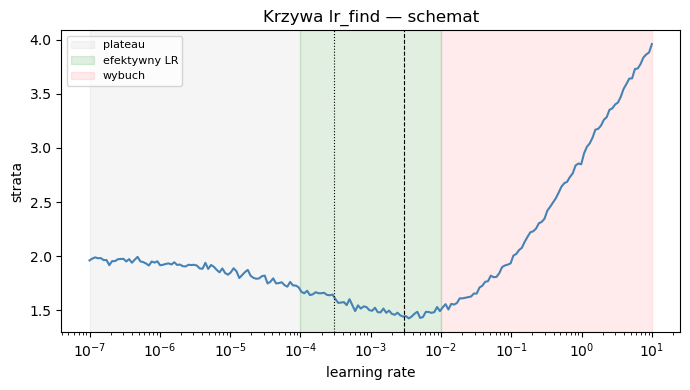
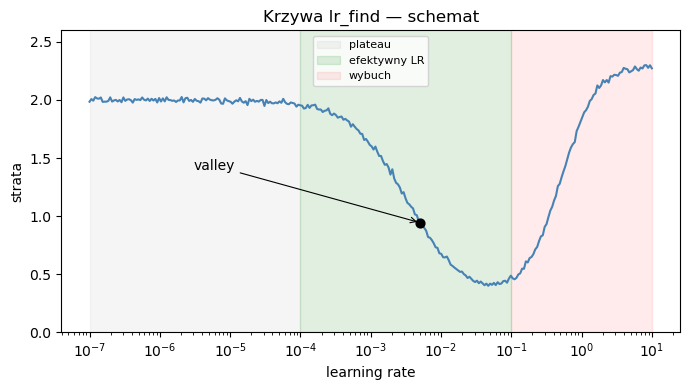
Built site for gh-pages

diff --git a/wyklady/wyklad_7.html b/wyklady/wyklad_7.html
@@ -61,7 +61,7 @@ pre > code.sourceCode > span > a:first-child::before { text-decoration: underlin
 </style>
 
 
-<script src="../site_libs/quarto-nav/quarto-nav.js"></script>
+<script src="https://cdn.jsdelivr.net/npm/jquery@3.5.1/dist/jquery.min.js" integrity="sha384-ZvpUoO/+PpLXR1lu4jmpXWu80pZlYUAfxl5NsBMWOEPSjUn/6Z/hRTt8+pR6L4N2" crossorigin="anonymous"></script><script src="../site_libs/quarto-nav/quarto-nav.js"></script>
 <script src="../site_libs/quarto-nav/headroom.min.js"></script>
 <script src="../site_libs/clipboard/clipboard.min.js"></script>
 <script src="../site_libs/quarto-search/autocomplete.umd.js"></script>
@@ -105,6 +105,9 @@ pre > code.sourceCode > span > a:first-child::before { text-decoration: underlin
     "search-label": "Search"
   }
 }</script>
+<script src="https://cdn.jsdelivr.net/npm/requirejs@2.3.6/require.min.js" integrity="sha384-c9c+LnTbwQ3aujuU7ULEPVvgLs+Fn6fJUvIGTsuu1ZcCf11fiEubah0ttpca4ntM sha384-6V1/AdqZRWk1KAlWbKBlGhN7VG4iE/yAZcO6NZPMF8od0vukrvr0tg4qY6NSrItx" crossorigin="anonymous"></script>
+
+<script type="application/javascript">define('jquery', [],function() {return window.jQuery;})</script>
 
   <script src="https://cdnjs.cloudflare.com/polyfill/v3/polyfill.min.js?features=es6"></script>
   <script defer="" src="https://cdn.jsdelivr.net/npm/mathjax@3/es5/tex-chtml-full.js" type="text/javascript"></script>
@@ -463,14 +466,10 @@ y = F(x) + x,
 <td><code>lr_find()</code></td>
 <td>pętla po batchach z wykładniczo rosnącym LR i logowaniem straty</td>
 </tr>
-<tr class="odd">
-<td><code>slice(lr_min, lr_max)</code></td>
-<td><code>param_groups</code> z różnymi <code>lr</code> dla różnych grup parametrów</td>
-</tr>
 </tbody>
 </table>
-<p>Wniosek dydaktyczny, który warto sobie zapisać już teraz: <strong>fastai nie robi niczego, czego nie umielibyśmy zaimplementować w PyTorchu</strong>. Niemal cały zysk fastai pochodzi z dwóch źródeł — z faktu, że ktoś <em>raz</em> napisał te rzeczy poprawnie (z dobrym harmonogramem, sensowną normalizacją, augmentacjami, które działają), oraz z tego, że trzy podstawowe abstrakcje są dobrze dobrane do tego, co naprawdę robimy w trenowaniu modeli.</p>
-<p>W kolejnych sekcjach pójdziemy po tej tabeli od góry do dołu.</p>
+<p>Wniosek praktyczny: <strong>fastai nie robi niczego, czego nie umielibyśmy zaimplementować w PyTorchu</strong>. Niemal cały zysk fastai pochodzi z dwóch źródeł — z faktu, że ktoś <em>raz</em> napisał te rzeczy poprawnie (z dobrym harmonogramem, sensowną normalizacją, augmentacjami, które działają), oraz z tego, że trzy podstawowe abstrakcje są dobrze dobrane do tego, co naprawdę robimy w trenowaniu modeli.</p>
+<p>W kolejnych sekcjach omówimy te abstrakcje w kolejności, w jakiej sięga się po nie w praktyce: najpierw <code>DataBlock</code> i <code>DataLoaders</code> (sekcja 5), potem <code>vision_learner</code> (sekcja 6), potem ręcznie zaimplementujemy <code>fine_tune()</code> w czystym PyTorchu (sekcja 7), zobaczymy <code>lr_find()</code> (sekcja 8) i fastai-ową wersję <code>fine_tune()</code> (sekcja 9). Wreszcie w sekcji 10 zobaczymy całość w działaniu.</p>
 </section>
 <section id="api-datablock-deklaratywne-przygotowanie-danych" class="level2">
 <h2 class="anchored" data-anchor-id="api-datablock-deklaratywne-przygotowanie-danych">API <code>DataBlock</code> — deklaratywne przygotowanie danych</h2>
@@ -515,7 +514,7 @@ y = F(x) + x,
 <div class="code-copy-outer-scaffold"><div class="sourceCode cell-code" id="cb4"><pre class="sourceCode python code-with-copy"><code class="sourceCode python"><span id="cb4-1"><a href="#cb4-1" aria-hidden="true" tabindex="-1"></a>learn <span class="op">=</span> vision_learner(dls, resnet18, metrics<span class="op">=</span>accuracy)</span></code></pre></div><button title="Copy to Clipboard" class="code-copy-button"><i class="bi"></i></button></div>
 </div>
 <p>Pod spodem fastai wykonuje cztery rzeczy. Wszystkie znamy z lab 11.</p>
-<p><strong>Po pierwsze</strong>, pobiera pretrenowany ResNet-18 z internetu (albo z lokalnego cache, jeśli już go ściągaliśmy) i ładuje wagi z ImageNet. Jest to dokładnie to, co robił <code>resnet18(weights=ResNet18_Weights.IMAGENET1K_V1)</code> w lab 11.</p>
+<p><strong>Po pierwsze</strong>, pobiera pretrenowany ResNet-18 z internetu (albo z lokalnego cache, jeśli już go ściągaliśmy) i ładuje wagi z ImageNet. Czyli to, co robił <code>resnet18(weights=ResNet18_Weights.IMAGENET1K_V1)</code> w lab 11.</p>
 <p><strong>Po drugie</strong>, odcina oryginalną głowę <code>fc</code> (linijka mapująca 512 cech na 1000 klas ImageNet) i przykleja w jej miejsce nową głowę, składającą się z kilku warstw: adaptive average pooling, flatten, BatchNorm, Dropout, Linear z aktywacją ReLU, kolejny BatchNorm i Dropout, i wreszcie warstwa Linear o wymiarze wyjściowym równym liczbie klas w <code>dls</code>. Głowa fastai jest więc bogatsza niż prosta podmiana <code>fc</code> z lab 11 (jedna warstwa liniowa), ale idea jest dokładnie ta sama: wymieniamy “ogon” sieci na coś dostosowanego do liczby naszych klas.</p>
 <p><strong>Po trzecie</strong>, zamraża backbone. W pętli po parametrach całej sieci ustawia <code>requires_grad=False</code> wszędzie poza nową głową:</p>
 <div id="cell-23" class="cell">
@@ -599,7 +598,7 @@ y = F(x) + x,
 <li>Narysuj krzywą strata–LR (na osi <span class="math inline">\(x\)</span> skala logarytmiczna).</li>
 </ol>
 <p>Krzywa, którą dostajemy, ma charakterystyczny kształt — trzy fazy:</p>
-<div id="cell-33" class="cell" data-execution_count="1">
+<div id="cell-33" class="cell" data-outputid="f5a4869e-681f-4062-ed88-16a8a6ec6a53">
 <div class="cell-output cell-output-display">
 <div>
 <figure class="figure">
@@ -614,25 +613,20 @@ y = F(x) + x,
 <li><strong>Ostry spadek przy umiarkowanym LR.</strong> Sieć uczy się efektywnie — strata szybko maleje wraz ze wzrostem LR. To jest “dobre” pasmo, z którego chcemy wybrać wartość.</li>
 <li><strong>Wybuch przy zbyt dużym LR.</strong> Strata zaczyna gwałtownie rosnąć. Kroki są na tyle duże, że parametry wylatują w obszary, w których funkcja straty jest gorsza niż przed nimi. Zwykle w tym momencie pętla się przerywa.</li>
 </ul>
-<p>Z tej krzywej fastai zwraca dwie liczby do wyboru:</p>
-<ul>
-<li><strong><code>lr_steep</code></strong> — wartość LR w punkcie o najstromszym nachyleniu krzywej. To jest “agresywna” propozycja: tu sieć uczy się najszybciej, ale jesteśmy też najbliżej obszaru wybuchu, więc minimalna nieostrożność (zbyt długi trening, zła augmentacja) może rozstroić sieć.</li>
-<li><strong><code>lr_min</code></strong> — wartość LR w punkcie minimum straty, podzielona przez 10. To jest “bezpieczna” propozycja: jesteśmy w środku stabilnej części krzywej, daleko od wybuchu.</li>
-</ul>
-<p>W praktyce wybiera się tu na oko, gdzieś między tymi dwoma punktami, kierując się głównie tym, jak bardzo nam zależy na szybkim treningu vs.&nbsp;jak bardzo na stabilności. Dla strojenia (sekcja 9) sensowny default to <span class="math inline">\(10^{-3}\)</span>, który zwykle leży wewnątrz “dobrego” pasma.</p>
-<p>Interpretacja dydaktyczna: <code>lr_find</code> to <strong>tania, jednowymiarowa wersja Optuny</strong>. Optuna przeszukuje wielowymiarową przestrzeń hiperparametrów, ucząc się rozkładu warunkowego dobrych kombinacji. <code>lr_find</code> szuka w jednym wymiarze (sam LR), ale wykonuje tę pracę w trakcie <em>jednej</em> krótkiej pętli, bez powtarzania pełnego treningu.</p>
+<p>Z tej krzywej fastai zwraca propozycję learning rate’u — domyślnie wartość zwaną <strong><code>valley</code></strong>. Algorytm <code>valley</code> lokalizuje najdłuższą „dolinę” na krzywej (najdłuższy spójny fragment, na którym strata maleje) i wybiera punkt mniej więcej w 2/3 jej długości — czyli wewnątrz pasma efektywnego uczenia, jeszcze z bezpiecznym zapasem od obszaru wybuchu. To rozsądny, konserwatywny default, który w praktyce sprawdza się dla większości zadań transferowych.</p>
+<p>Wynik <code>lr_find()</code> to obiekt, z którego wyłuskujemy tę liczbę przez pole <code>.valley</code> i podajemy ją wprost do <code>fine_tune()</code>:</p>
+<div class="code-copy-outer-scaffold"><div class="sourceCode" id="cb9"><pre class="sourceCode python code-with-copy"><code class="sourceCode python"><span id="cb9-1"><a href="#cb9-1" aria-hidden="true" tabindex="-1"></a>res <span class="op">=</span> learn.lr_find()</span>
+<span id="cb9-2"><a href="#cb9-2" aria-hidden="true" tabindex="-1"></a>learn.fine_tune(<span class="dv">3</span>, base_lr<span class="op">=</span>res.valley)</span></code></pre></div><button title="Copy to Clipboard" class="code-copy-button"><i class="bi"></i></button></div>
+<p>Tym samym <code>lr_find()</code> nie tylko rysuje krzywą, ale również dostarcza konkretną wartość <code>base_lr</code> do treningu. (fastai potrafi też zwrócić inne propozycje, np. punkt minimum czy najstromszego nachylenia, jeśli poda się je w <code>suggest_funcs</code>, ale domyślny <code>valley</code> wystarcza nam w zupełności.)</p>
+<p>Interpretacja: <code>lr_find</code> to <strong>tania, jednowymiarowa wersja Optuny</strong>. Optuna przeszukuje wielowymiarową przestrzeń hiperparametrów, ucząc się rozkładu warunkowego dobrych kombinacji. <code>lr_find</code> szuka w jednym wymiarze (sam LR), ale wykonuje tę pracę w trakcie <em>jednej</em> krótkiej pętli, bez powtarzania pełnego treningu.</p>
 </section>
 <section id="fine_tune-dwuetapowy-trening-w-jednej-linijce" class="level2">
 <h2 class="anchored" data-anchor-id="fine_tune-dwuetapowy-trening-w-jednej-linijce"><code>fine_tune()</code> — dwuetapowy trening w jednej linijce</h2>
-<p>Mając <code>lr_find()</code> za sobą, wybieramy <code>base_lr</code> i wywołujemy:</p>
-<div id="cell-37" class="cell">
-<div class="code-copy-outer-scaffold"><div class="sourceCode cell-code" id="cb9"><pre class="sourceCode python code-with-copy"><code class="sourceCode python"><span id="cb9-1"><a href="#cb9-1" aria-hidden="true" tabindex="-1"></a>learn.fine_tune(epochs<span class="op">=</span><span class="dv">3</span>, base_lr<span class="op">=</span><span class="fl">1e-3</span>)</span></code></pre></div><button title="Copy to Clipboard" class="code-copy-button"><i class="bi"></i></button></div>
-</div>
-<p>Pod spodem ta jedna linijka rozkłada się dokładnie na to, co napisaliśmy ręcznie w sekcji 7, plus jeden bonus.</p>
-<p><strong>Etap 1</strong> (długość ustalana parametrem <code>freeze_epochs</code>, domyślnie 1 epoka): wywołuje <code>learn.freeze()</code>, co ustawia <code>requires_grad=False</code> we wszystkich warstwach poza nową głową, a następnie trenuje przez <code>freeze_epochs</code> epok z LR równym <code>base_lr</code>. To nasz etap 1 z sekcji 7.</p>
-<p><strong>Etap 2</strong> (długość <code>epochs</code>): wywołuje <code>learn.unfreeze()</code>, co odmraża wszystkie warstwy, a następnie trenuje przez <code>epochs</code> epok z <strong>dyskryminacyjnym LR</strong>, ustawionym jako <code>slice(base_lr/100, base_lr/2)</code>.</p>
-<p>Wyrażenie <code>slice(lr_min, lr_max)</code> to fastai-owy idiom oznaczający: “learning rate rośnie geometrycznie od <code>lr_min</code> (dla pierwszej grupy parametrów) do <code>lr_max</code> (dla ostatniej)”. Wewnętrznie fastai dzieli parametry ResNeta na trzy grupy (wczesne warstwy backbone’u, środkowe warstwy backbone’u, nowa głowa) i przypisuje im LR-y na skali geometrycznej między <code>lr_min</code> a <code>lr_max</code>. To, co fastai konstruuje pod spodem, to <strong>ta sama lista słowników z <code>params</code> i <code>lr</code></strong>, którą zbudowaliśmy ręcznie w sekcji 7 — tylko dla trzech grup zamiast dwóch, i z LR-ami obliczonymi automatycznie z <code>base_lr</code>.</p>
-<p>Z domyślnym <code>base_lr=1e-3</code> daje to LR-y rzędu <span class="math inline">\(10^{-5}\)</span> dla wczesnych warstw i <span class="math inline">\(5 \cdot 10^{-4}\)</span> dla głowy — czyli proporcję 50×, w środku zakresu.</p>
+<p>Mając wartość z <code>lr_find()</code>, podajemy ją jako <code>base_lr</code> i wywołujemy:</p>
+<div class="code-copy-outer-scaffold"><div class="sourceCode" id="cb10"><pre class="sourceCode python code-with-copy"><code class="sourceCode python"><span id="cb10-1"><a href="#cb10-1" aria-hidden="true" tabindex="-1"></a>learn.fine_tune(epochs<span class="op">=</span><span class="dv">3</span>, base_lr<span class="op">=</span>res.valley)</span></code></pre></div><button title="Copy to Clipboard" class="code-copy-button"><i class="bi"></i></button></div>
+<p>Pod spodem ta jedna linijka rozkłada się na to, co napisaliśmy ręcznie w sekcji 7, plus jeden bonus.</p>
+<p><strong>Etap 1</strong> (długość ustalana parametrem <code>freeze_epochs</code>, domyślnie 1 epoka): wywołuje <code>learn.freeze()</code>, co ustawia <code>requires_grad=False</code> we wszystkich warstwach poza nową głową, a następnie trenuje przez <code>freeze_epochs</code> epok z LR równym <code>base_lr</code>.</p>
+<p><strong>Etap 2</strong> (długość <code>epochs</code>): wywołuje <code>learn.unfreeze()</code>, co odmraża wszystkie warstwy, a następnie trenuje przez <code>epochs</code> epok z <strong>dyskryminacyjnym LR</strong>: bardzo małym dla wczesnych warstw backbone’u, większym dla nowej głowy. Wewnętrznie fastai dzieli parametry ResNeta na trzy grupy (wczesne warstwy backbone’u, środkowe warstwy backbone’u, nowa głowa) i przypisuje im learning rate’y na skali geometrycznej między <code>base_lr/100</code> a <code>base_lr/2</code>. To, co fastai konstruuje pod spodem, to <strong>ta sama lista słowników z <code>params</code> i <code>lr</code></strong>, którą zbudowaliśmy ręcznie w sekcji 7 — tylko dla trzech grup zamiast dwóch, i z LR-ami obliczonymi automatycznie z <code>base_lr</code>. Tej konstrukcji nie wywołujemy sami; <code>fine_tune()</code> buduje ją za nas.</p>
 <p><strong>One-cycle policy.</strong> Bonus, którego sekcja 7 nie pokazywała: w obu etapach LR nie jest stały. Jest harmonogramowany według polityki jednego cyklu (Smith 2017): LR rośnie liniowo od ułamka <code>base_lr</code> do <code>base_lr</code> w pierwszej połowie treningu, a potem opada do bardzo małej wartości w drugiej połowie. Ten harmonogram poprawia konwergencję i daje się tłumaczyć dwojako — w pierwszej fazie pomaga sieci wydostać się z marnego lokalnego minimum, w drugiej pomaga jej “osadzić się” w głębokim, dobrym minimum. W czystym PyTorchu implementuje się to przez <code>torch.optim.lr_scheduler.OneCycleLR</code>; w fastai dzieje się to automatycznie wewnątrz <code>fine_tune()</code>.</p>
 <p>Zauważmy, jak ułożone są warstwy abstrakcji. Jedna linijka <code>fine_tune(3, base_lr=1e-3)</code> to: dwie pętle treningowe z wykładu 5, dyskryminacyjny LR z sekcji 7, plus harmonogram one-cycle.</p>
 </section>
@@ -640,53 +634,247 @@ y = F(x) + x,
 <h2 class="anchored" data-anchor-id="praktyczny-przykład-oxford-iiit-pets">Praktyczny przykład: Oxford-IIIT Pets</h2>
 <p>Zobaczmy całość w działaniu. Zbiór, który tu wykorzystamy — Oxford-IIIT Pets — to jeden z klasycznych benchmarków klasyfikacji obrazów: 37 klas (różne rasy psów i kotów), około 7000 zdjęć w naturalnych warunkach, etykieta zapisana w nazwie pliku (np. <code>american_bulldog_42.jpg</code> → klasa <code>american_bulldog</code>).</p>
 <p>Krok pierwszy — pobranie i podejrzenie danych:</p>
-<div id="cell-41" class="cell">
-<div class="code-copy-outer-scaffold"><div class="sourceCode cell-code" id="cb10"><pre class="sourceCode python code-with-copy"><code class="sourceCode python"><span id="cb10-1"><a href="#cb10-1" aria-hidden="true" tabindex="-1"></a><span class="im">from</span> fastai.vision.<span class="bu">all</span> <span class="im">import</span> <span class="op">*</span></span>
-<span id="cb10-2"><a href="#cb10-2" aria-hidden="true" tabindex="-1"></a></span>
-<span id="cb10-3"><a href="#cb10-3" aria-hidden="true" tabindex="-1"></a>path <span class="op">=</span> untar_data(URLs.PETS)</span>
-<span id="cb10-4"><a href="#cb10-4" aria-hidden="true" tabindex="-1"></a>files <span class="op">=</span> get_image_files(path<span class="op">/</span><span class="st">'images'</span>)</span>
-<span id="cb10-5"><a href="#cb10-5" aria-hidden="true" tabindex="-1"></a><span class="bu">print</span>(<span class="bu">len</span>(files), files[<span class="dv">0</span>])</span></code></pre></div><button title="Copy to Clipboard" class="code-copy-button"><i class="bi"></i></button></div>
+<div id="cell-39" class="cell" data-quarto-private-1="{&quot;key&quot;:&quot;colab&quot;,&quot;value&quot;:{&quot;base_uri&quot;:&quot;https://localhost:8080/&quot;}}" data-outputid="7f83b726-35ee-49f1-8dd5-d4e206bfc332" data-execution_count="1">
+<div class="code-copy-outer-scaffold"><div class="sourceCode cell-code" id="cb11"><pre class="sourceCode python code-with-copy"><code class="sourceCode python"><span id="cb11-1"><a href="#cb11-1" aria-hidden="true" tabindex="-1"></a><span class="im">from</span> fastai.vision.<span class="bu">all</span> <span class="im">import</span> <span class="op">*</span></span>
+<span id="cb11-2"><a href="#cb11-2" aria-hidden="true" tabindex="-1"></a></span>
+<span id="cb11-3"><a href="#cb11-3" aria-hidden="true" tabindex="-1"></a>path <span class="op">=</span> untar_data(URLs.PETS)</span>
+<span id="cb11-4"><a href="#cb11-4" aria-hidden="true" tabindex="-1"></a>files <span class="op">=</span> get_image_files(path<span class="op">/</span><span class="st">'images'</span>)</span>
+<span id="cb11-5"><a href="#cb11-5" aria-hidden="true" tabindex="-1"></a><span class="bu">print</span>(<span class="bu">len</span>(files), files[<span class="dv">0</span>])</span></code></pre></div><button title="Copy to Clipboard" class="code-copy-button"><i class="bi"></i></button></div>
+<div class="cell-output cell-output-stdout">
+<pre><code>7390 /root/.fastai/data/oxford-iiit-pet/images/Birman_117.jpg</code></pre>
+</div>
 </div>
 <p><code>untar_data(URLs.PETS)</code> pobiera archiwum, rozpakowuje je do lokalnego cache fastai i zwraca ścieżkę do folderu z danymi. <code>get_image_files</code> zwraca listę wszystkich plików obrazów w folderze.</p>
 <p>Etykietowanie wymaga wyłuskania nazwy rasy z nazwy pliku. Konwencja Oxford-IIIT: nazwa rasy może składać się z wielu słów rozdzielonych podkreśleniami, a po niej następuje <code>_&lt;numer&gt;.jpg</code>. Wyrażenie regularne <code>r'^(.+)_\d+.jpg$'</code> wyłuska część przed numerem.</p>
 <p>Pełen pipeline w sześć linijek:</p>
-<div id="cell-43" class="cell">
-<div class="code-copy-outer-scaffold"><div class="sourceCode cell-code" id="cb11"><pre class="sourceCode python code-with-copy"><code class="sourceCode python"><span id="cb11-1"><a href="#cb11-1" aria-hidden="true" tabindex="-1"></a>dblock <span class="op">=</span> DataBlock(</span>
-<span id="cb11-2"><a href="#cb11-2" aria-hidden="true" tabindex="-1"></a>    blocks<span class="op">=</span>(ImageBlock, CategoryBlock),</span>
-<span id="cb11-3"><a href="#cb11-3" aria-hidden="true" tabindex="-1"></a>    get_items<span class="op">=</span>get_image_files,</span>
-<span id="cb11-4"><a href="#cb11-4" aria-hidden="true" tabindex="-1"></a>    splitter<span class="op">=</span>RandomSplitter(valid_pct<span class="op">=</span><span class="fl">0.2</span>, seed<span class="op">=</span><span class="dv">42</span>),</span>
-<span id="cb11-5"><a href="#cb11-5" aria-hidden="true" tabindex="-1"></a>    get_y<span class="op">=</span>using_attr(RegexLabeller(<span class="vs">r'</span><span class="dv">^</span><span class="kw">(</span><span class="dv">.</span><span class="op">+</span><span class="kw">)</span><span class="vs">_</span><span class="dv">\d</span><span class="op">+</span><span class="dv">.</span><span class="vs">jpg</span><span class="dv">$</span><span class="vs">'</span>), <span class="st">'name'</span>),</span>
-<span id="cb11-6"><a href="#cb11-6" aria-hidden="true" tabindex="-1"></a>    item_tfms<span class="op">=</span>Resize(<span class="dv">224</span>),</span>
-<span id="cb11-7"><a href="#cb11-7" aria-hidden="true" tabindex="-1"></a>    batch_tfms<span class="op">=</span>[<span class="op">*</span>aug_transforms(), Normalize.from_stats(<span class="op">*</span>imagenet_stats)],</span>
-<span id="cb11-8"><a href="#cb11-8" aria-hidden="true" tabindex="-1"></a>)</span>
-<span id="cb11-9"><a href="#cb11-9" aria-hidden="true" tabindex="-1"></a>dls <span class="op">=</span> dblock.dataloaders(path<span class="op">/</span><span class="st">'images'</span>, bs<span class="op">=</span><span class="dv">64</span>)</span>
-<span id="cb11-10"><a href="#cb11-10" aria-hidden="true" tabindex="-1"></a>dls.show_batch(max_n<span class="op">=</span><span class="dv">9</span>)</span>
-<span id="cb11-11"><a href="#cb11-11" aria-hidden="true" tabindex="-1"></a></span>
-<span id="cb11-12"><a href="#cb11-12" aria-hidden="true" tabindex="-1"></a>learn <span class="op">=</span> vision_learner(dls, resnet18, metrics<span class="op">=</span>accuracy)</span>
-<span id="cb11-13"><a href="#cb11-13" aria-hidden="true" tabindex="-1"></a>learn.lr_find()</span>
-<span id="cb11-14"><a href="#cb11-14" aria-hidden="true" tabindex="-1"></a>learn.fine_tune(<span class="dv">3</span>, base_lr<span class="op">=</span><span class="fl">1e-3</span>)</span></code></pre></div><button title="Copy to Clipboard" class="code-copy-button"><i class="bi"></i></button></div>
+<div id="cell-41" class="cell" data-quarto-private-1="{&quot;key&quot;:&quot;colab&quot;,&quot;value&quot;:{&quot;base_uri&quot;:&quot;https://localhost:8080/&quot;,&quot;height&quot;:1000}}" data-outputid="904b6bd0-16a0-46e9-9529-4fd0af19faeb" data-execution_count="2">
+<div class="code-copy-outer-scaffold"><div class="sourceCode cell-code" id="cb13"><pre class="sourceCode python code-with-copy"><code class="sourceCode python"><span id="cb13-1"><a href="#cb13-1" aria-hidden="true" tabindex="-1"></a>dblock <span class="op">=</span> DataBlock(</span>
+<span id="cb13-2"><a href="#cb13-2" aria-hidden="true" tabindex="-1"></a>    blocks<span class="op">=</span>(ImageBlock, CategoryBlock),</span>
+<span id="cb13-3"><a href="#cb13-3" aria-hidden="true" tabindex="-1"></a>    get_items<span class="op">=</span>get_image_files,</span>
+<span id="cb13-4"><a href="#cb13-4" aria-hidden="true" tabindex="-1"></a>    splitter<span class="op">=</span>RandomSplitter(valid_pct<span class="op">=</span><span class="fl">0.2</span>, seed<span class="op">=</span><span class="dv">42</span>),</span>
+<span id="cb13-5"><a href="#cb13-5" aria-hidden="true" tabindex="-1"></a>    get_y<span class="op">=</span>using_attr(RegexLabeller(<span class="vs">r'</span><span class="dv">^</span><span class="kw">(</span><span class="dv">.</span><span class="op">+</span><span class="kw">)</span><span class="vs">_</span><span class="dv">\d</span><span class="op">+</span><span class="dv">.</span><span class="vs">jpg</span><span class="dv">$</span><span class="vs">'</span>), <span class="st">'name'</span>),</span>
+<span id="cb13-6"><a href="#cb13-6" aria-hidden="true" tabindex="-1"></a>    item_tfms<span class="op">=</span>Resize(<span class="dv">224</span>),</span>
+<span id="cb13-7"><a href="#cb13-7" aria-hidden="true" tabindex="-1"></a>    batch_tfms<span class="op">=</span>[<span class="op">*</span>aug_transforms(), Normalize.from_stats(<span class="op">*</span>imagenet_stats)],</span>
+<span id="cb13-8"><a href="#cb13-8" aria-hidden="true" tabindex="-1"></a>)</span>
+<span id="cb13-9"><a href="#cb13-9" aria-hidden="true" tabindex="-1"></a>dls <span class="op">=</span> dblock.dataloaders(path<span class="op">/</span><span class="st">'images'</span>, bs<span class="op">=</span><span class="dv">64</span>)</span>
+<span id="cb13-10"><a href="#cb13-10" aria-hidden="true" tabindex="-1"></a>dls.show_batch(max_n<span class="op">=</span><span class="dv">9</span>)</span>
+<span id="cb13-11"><a href="#cb13-11" aria-hidden="true" tabindex="-1"></a></span>
+<span id="cb13-12"><a href="#cb13-12" aria-hidden="true" tabindex="-1"></a>learn <span class="op">=</span> vision_learner(dls, resnet18, metrics<span class="op">=</span>accuracy)</span>
+<span id="cb13-13"><a href="#cb13-13" aria-hidden="true" tabindex="-1"></a>res <span class="op">=</span> learn.lr_find()</span></code></pre></div><button title="Copy to Clipboard" class="code-copy-button"><i class="bi"></i></button></div>
+<div class="cell-output cell-output-display">
+
+<style>
+    progress { appearance: none; border: none; border-radius: 4px; width: 300px;
+        height: 20px; vertical-align: middle; background: #e0e0e0; }
+
+    progress::-webkit-progress-bar { background: #e0e0e0; border-radius: 4px; }
+    progress::-webkit-progress-value { background: #2196F3; border-radius: 4px; }
+    progress::-moz-progress-bar { background: #2196F3; border-radius: 4px; }
+
+    progress:not([value]) {
+        background: repeating-linear-gradient(45deg, #7e7e7e, #7e7e7e 10px, #5c5c5c 10px, #5c5c5c 20px); }
+
+    progress.progress-bar-interrupted::-webkit-progress-value { background: #F44336; }
+    progress.progress-bar-interrupted::-moz-progress-value { background: #F44336; }
+    progress.progress-bar-interrupted::-webkit-progress-bar { background: #F44336; }
+    progress.progress-bar-interrupted::-moz-progress-bar { background: #F44336; }
+    progress.progress-bar-interrupted { background: #F44336; }    
+
+    table.fastprogress { border-collapse: collapse; margin: 1em 0; font-size: 0.9em; }
+    table.fastprogress th, table.fastprogress td { padding: 8px 12px; border: 1px solid #ddd; text-align: left; }
+    table.fastprogress thead tr { background: #f8f9fa; font-weight: bold; }
+    table.fastprogress tbody tr:nth-of-type(even) { background: #f8f9fa; }
+</style>
+</div>
+<div class="cell-output cell-output-display">
+<div></div>
+</div>
+<div class="cell-output cell-output-display">
+<div>
+<figure class="figure">
+<p><img src="wyklad_7_files/figure-html/cell-12-output-3.png" class="img-fluid figure-img"></p>
+</figure>
+</div>
+</div>
+<div class="cell-output cell-output-display">
+<div>
+<figure class="figure">
+<p><img src="wyklad_7_files/figure-html/cell-12-output-4.png" class="img-fluid figure-img"></p>
+</figure>
+</div>
+</div>
+</div>
+<div id="cell-42" class="cell" data-quarto-private-1="{&quot;key&quot;:&quot;colab&quot;,&quot;value&quot;:{&quot;base_uri&quot;:&quot;https://localhost:8080/&quot;,&quot;height&quot;:149}}" data-outputid="734014ef-0431-48ba-f6e3-c67b408d3a8e" data-execution_count="3">
+<div class="code-copy-outer-scaffold"><div class="sourceCode cell-code" id="cb14"><pre class="sourceCode python code-with-copy"><code class="sourceCode python"><span id="cb14-1"><a href="#cb14-1" aria-hidden="true" tabindex="-1"></a>learn.fine_tune(<span class="dv">3</span>, base_lr<span class="op">=</span>res.valley)</span></code></pre></div><button title="Copy to Clipboard" class="code-copy-button"><i class="bi"></i></button></div>
+<div class="cell-output cell-output-display">
+<div>
+<table class="fastprogress caption-top table table-sm table-striped small">
+<thead>
+<tr class="header">
+<th data-quarto-table-cell-role="th">epoch</th>
+<th data-quarto-table-cell-role="th">train_loss</th>
+<th data-quarto-table-cell-role="th">valid_loss</th>
+<th data-quarto-table-cell-role="th">accuracy</th>
+<th data-quarto-table-cell-role="th">time</th>
+</tr>
+</thead>
+<tbody>
+<tr class="odd">
+<td>0</td>
+<td>2.897494</td>
+<td>0.664590</td>
+<td>0.817997</td>
+<td>00:39</td>
+</tr>
+</tbody>
+</table>
+</div>
+</div>
+<div class="cell-output cell-output-display">
+<div>
+<table class="fastprogress caption-top table table-sm table-striped small">
+<thead>
+<tr class="header">
+<th data-quarto-table-cell-role="th">epoch</th>
+<th data-quarto-table-cell-role="th">train_loss</th>
+<th data-quarto-table-cell-role="th">valid_loss</th>
+<th data-quarto-table-cell-role="th">accuracy</th>
+<th data-quarto-table-cell-role="th">time</th>
+</tr>
+</thead>
+<tbody>
+<tr class="odd">
+<td>0</td>
+<td>1.060126</td>
+<td>0.379037</td>
+<td>0.884980</td>
+<td>00:41</td>
+</tr>
+<tr class="even">
+<td>1</td>
+<td>0.722888</td>
+<td>0.278782</td>
+<td>0.908660</td>
+<td>00:42</td>
+</tr>
+<tr class="odd">
+<td>2</td>
+<td>0.574418</td>
+<td>0.267447</td>
+<td>0.912720</td>
+<td>00:45</td>
+</tr>
+</tbody>
+</table>
+</div>
+</div>
 </div>
 <p>Na Pets ten pipeline daje zwykle dokładność wyraźnie powyżej dziewięćdziesięciu procent na zbiorze walidacyjnym po trzech epokach. Pełny trening trwa około trzech minut na bezpłatnym GPU T4 w Google Colab — niewielki ułamek tego, ile zajęłoby trenowanie ResNeta od zera (które zresztą, jak zaraz zobaczymy, w ogóle by się nie udało).</p>
 <p><strong>Porównanie z treningiem od zera.</strong> Najprostszy sposób, żeby zobaczyć, ile naprawdę daje transfer, to wykonać dokładnie ten sam trening, ale z modelem zainicjalizowanym losowo — czyli <code>vision_learner(dls, resnet18, pretrained=False, metrics=accuracy)</code>. Liczba parametrów ta sama, architektura ta sama, dane te same, te same trzy epoki strojenia z <code>fine_tune</code>.</p>
-<div id="cell-45" class="cell">
-<div class="code-copy-outer-scaffold"><div class="sourceCode cell-code" id="cb12"><pre class="sourceCode python code-with-copy"><code class="sourceCode python"><span id="cb12-1"><a href="#cb12-1" aria-hidden="true" tabindex="-1"></a>learn_raw <span class="op">=</span> vision_learner(dls, resnet18, pretrained<span class="op">=</span><span class="va">False</span>, metrics<span class="op">=</span>accuracy)</span>
-<span id="cb12-2"><a href="#cb12-2" aria-hidden="true" tabindex="-1"></a>res <span class="op">=</span> learn_raw.lr_find()</span></code></pre></div><button title="Copy to Clipboard" class="code-copy-button"><i class="bi"></i></button></div>
+<div id="cell-44" class="cell" data-quarto-private-1="{&quot;key&quot;:&quot;colab&quot;,&quot;value&quot;:{&quot;base_uri&quot;:&quot;https://localhost:8080/&quot;,&quot;height&quot;:454}}" data-outputid="b8e2838d-2af5-497f-bc20-424402720585" data-execution_count="4">
+<div class="code-copy-outer-scaffold"><div class="sourceCode cell-code" id="cb15"><pre class="sourceCode python code-with-copy"><code class="sourceCode python"><span id="cb15-1"><a href="#cb15-1" aria-hidden="true" tabindex="-1"></a>learn_raw <span class="op">=</span> vision_learner(dls, resnet18, pretrained<span class="op">=</span><span class="va">False</span>, metrics<span class="op">=</span>accuracy)</span>
+<span id="cb15-2"><a href="#cb15-2" aria-hidden="true" tabindex="-1"></a>res <span class="op">=</span> learn_raw.lr_find()</span></code></pre></div><button title="Copy to Clipboard" class="code-copy-button"><i class="bi"></i></button></div>
+<div class="cell-output cell-output-display">
+<div></div>
 </div>
-<div id="cell-46" class="cell">
-<div class="code-copy-outer-scaffold"><div class="sourceCode cell-code" id="cb13"><pre class="sourceCode python code-with-copy"><code class="sourceCode python"><span id="cb13-1"><a href="#cb13-1" aria-hidden="true" tabindex="-1"></a>learn_raw.fine_tune(<span class="dv">3</span>, base_lr<span class="op">=</span>res.valley)</span></code></pre></div><button title="Copy to Clipboard" class="code-copy-button"><i class="bi"></i></button></div>
+<div class="cell-output cell-output-display">
+<div>
+<figure class="figure">
+<p><img src="wyklad_7_files/figure-html/cell-14-output-2.png" class="img-fluid figure-img"></p>
+</figure>
+</div>
+</div>
+</div>
+<div id="cell-45" class="cell" data-quarto-private-1="{&quot;key&quot;:&quot;colab&quot;,&quot;value&quot;:{&quot;base_uri&quot;:&quot;https://localhost:8080/&quot;,&quot;height&quot;:149}}" data-outputid="560cbea9-f677-4722-a25d-4fb85315f29f" data-execution_count="5">
+<div class="code-copy-outer-scaffold"><div class="sourceCode cell-code" id="cb16"><pre class="sourceCode python code-with-copy"><code class="sourceCode python"><span id="cb16-1"><a href="#cb16-1" aria-hidden="true" tabindex="-1"></a>learn_raw.fine_tune(<span class="dv">3</span>, base_lr<span class="op">=</span>res.valley)</span></code></pre></div><button title="Copy to Clipboard" class="code-copy-button"><i class="bi"></i></button></div>
+<div class="cell-output cell-output-display">
+<div>
+<table class="fastprogress caption-top table table-sm table-striped small">
+<thead>
+<tr class="header">
+<th data-quarto-table-cell-role="th">epoch</th>
+<th data-quarto-table-cell-role="th">train_loss</th>
+<th data-quarto-table-cell-role="th">valid_loss</th>
+<th data-quarto-table-cell-role="th">accuracy</th>
+<th data-quarto-table-cell-role="th">time</th>
+</tr>
+</thead>
+<tbody>
+<tr class="odd">
+<td>0</td>
+<td>4.883750</td>
+<td>3.785161</td>
+<td>0.052097</td>
+<td>00:39</td>
+</tr>
+</tbody>
+</table>
+</div>
+</div>
+<div class="cell-output cell-output-display">
+<div>
+<table class="fastprogress caption-top table table-sm table-striped small">
+<thead>
+<tr class="header">
+<th data-quarto-table-cell-role="th">epoch</th>
+<th data-quarto-table-cell-role="th">train_loss</th>
+<th data-quarto-table-cell-role="th">valid_loss</th>
+<th data-quarto-table-cell-role="th">accuracy</th>
+<th data-quarto-table-cell-role="th">time</th>
+</tr>
+</thead>
+<tbody>
+<tr class="odd">
+<td>0</td>
+<td>4.368881</td>
+<td>3.625672</td>
+<td>0.071719</td>
+<td>00:41</td>
+</tr>
+<tr class="even">
+<td>1</td>
+<td>4.222616</td>
+<td>3.437689</td>
+<td>0.091340</td>
+<td>00:42</td>
+</tr>
+<tr class="odd">
+<td>2</td>
+<td>4.101819</td>
+<td>3.412164</td>
+<td>0.099459</td>
+<td>00:43</td>
+</tr>
+</tbody>
+</table>
+</div>
+</div>
 </div>
 <p>I dopiero tu, dopiero w tym porównaniu — siedemdziesiąt punktów procentowych różnicy między modelem pretrenowanym a modelem od zera, przy identycznej reszcie pipeline’u — widać sens transfer learningu.</p>
 </section>
 <section id="interpretacja-wyników" class="level2">
 <h2 class="anchored" data-anchor-id="interpretacja-wyników">Interpretacja wyników</h2>
 <p>Po wytrenowaniu modelu w fastai mamy do dyspozycji zestaw narzędzi diagnostycznych zebranych w klasie <code>ClassificationInterpretation</code>:</p>
-<div id="cell-49" class="cell">
-<div class="code-copy-outer-scaffold"><div class="sourceCode cell-code" id="cb14"><pre class="sourceCode python code-with-copy"><code class="sourceCode python"><span id="cb14-1"><a href="#cb14-1" aria-hidden="true" tabindex="-1"></a>interp <span class="op">=</span> ClassificationInterpretation.from_learner(learn)</span></code></pre></div><button title="Copy to Clipboard" class="code-copy-button"><i class="bi"></i></button></div>
+<div id="cell-48" class="cell" data-quarto-private-1="{&quot;key&quot;:&quot;colab&quot;,&quot;value&quot;:{&quot;base_uri&quot;:&quot;https://localhost:8080/&quot;,&quot;height&quot;:17}}" data-outputid="f453f6df-22ac-42e1-ea6a-eb23e525222c" data-execution_count="6">
+<div class="code-copy-outer-scaffold"><div class="sourceCode cell-code" id="cb17"><pre class="sourceCode python code-with-copy"><code class="sourceCode python"><span id="cb17-1"><a href="#cb17-1" aria-hidden="true" tabindex="-1"></a>interp <span class="op">=</span> ClassificationInterpretation.from_learner(learn)</span></code></pre></div><button title="Copy to Clipboard" class="code-copy-button"><i class="bi"></i></button></div>
+<div class="cell-output cell-output-display">
+
+</div>
 </div>
 <p>Dwie wizualizacje, na które warto patrzeć zaraz po treningu:</p>
 <p><strong>Macierz pomyłek.</strong> <code>interp.plot_confusion_matrix(figsize=(12, 12))</code> rysuje macierz 37×37 pokazującą, która rasa myli się z którą. Na zbiorze Pets typowo widać dwa lub trzy “ciepłe” punkty poza diagonalą: Birman i Ragdoll (oba długowłose koty syjamskie), American Bulldog i Staffordshire Bull Terrier (oba muskularne psy o krótkiej sierści), Siamese i Birman. Te pomyłki <strong>nie są błędem modelu</strong> — są poprawną informacją o świecie. Te rasy są naprawdę wizualnie podobne; nawet specjalista bez kontekstu by się czasem pomylił.</p>
-<div id="cell-51" class="cell">
-<div class="code-copy-outer-scaffold"><div class="sourceCode cell-code" id="cb15"><pre class="sourceCode python code-with-copy"><code class="sourceCode python"><span id="cb15-1"><a href="#cb15-1" aria-hidden="true" tabindex="-1"></a>interp.plot_confusion_matrix(figsize<span class="op">=</span>(<span class="dv">12</span>, <span class="dv">12</span>))</span></code></pre></div><button title="Copy to Clipboard" class="code-copy-button"><i class="bi"></i></button></div>
+<div id="cell-50" class="cell" data-quarto-private-1="{&quot;key&quot;:&quot;colab&quot;,&quot;value&quot;:{&quot;base_uri&quot;:&quot;https://localhost:8080/&quot;,&quot;height&quot;:1000}}" data-outputid="0d40bf3b-785a-4dc7-e7ae-4686e49cb64b" data-execution_count="7">
+<div class="code-copy-outer-scaffold"><div class="sourceCode cell-code" id="cb18"><pre class="sourceCode python code-with-copy"><code class="sourceCode python"><span id="cb18-1"><a href="#cb18-1" aria-hidden="true" tabindex="-1"></a>interp.plot_confusion_matrix(figsize<span class="op">=</span>(<span class="dv">12</span>, <span class="dv">12</span>))</span></code></pre></div><button title="Copy to Clipboard" class="code-copy-button"><i class="bi"></i></button></div>
+<div class="cell-output cell-output-display">
+
+</div>
+<div class="cell-output cell-output-display">
+<div>
+<figure class="figure">
+<p><img src="wyklad_7_files/figure-html/cell-17-output-2.png" class="img-fluid figure-img"></p>
+</figure>
+</div>
+</div>
 </div>
 <p><strong>Najgorsze przypadki.</strong> <code>interp.plot_top_losses(9, nrows=3)</code> rysuje dziewięć obrazów, na których model miał największą stratę. Dla każdego pokazane są: etykieta prawdziwa, predykcja modelu, jego pewność i wartość straty.</p>
 <p>Te dziewięć obrazów zwykle dzieli się na trzy kategorie:</p>
@@ -695,8 +883,18 @@ y = F(x) + x,
 <li><strong>Obrazy źle oznaczone w zbiorze</strong>. Zdarza się to nawet w klasycznych benchmarkach. Pets ma kilkanaście błędów etykietowania; ImageNet ma tysiące. Top losses są najszybszym sposobem, żeby je znaleźć.</li>
 <li><strong>Obrazy spoza rozkładu</strong>. Część pyska wystająca zza kanapy; zwierzę bardzo daleko; pies sfotografowany z dziwnego kąta; pies obok kota i etykieta wskazuje tylko jedno z nich.</li>
 </ul>
-<div id="cell-53" class="cell">
-<div class="code-copy-outer-scaffold"><div class="sourceCode cell-code" id="cb16"><pre class="sourceCode python code-with-copy"><code class="sourceCode python"><span id="cb16-1"><a href="#cb16-1" aria-hidden="true" tabindex="-1"></a>interp.plot_top_losses(<span class="dv">9</span>, nrows<span class="op">=</span><span class="dv">3</span>)</span></code></pre></div><button title="Copy to Clipboard" class="code-copy-button"><i class="bi"></i></button></div>
+<div id="cell-52" class="cell" data-quarto-private-1="{&quot;key&quot;:&quot;colab&quot;,&quot;value&quot;:{&quot;base_uri&quot;:&quot;https://localhost:8080/&quot;,&quot;height&quot;:819}}" data-outputid="9852a1ff-3c62-41d1-fbc9-0460b3d5ad70" data-execution_count="8">
+<div class="code-copy-outer-scaffold"><div class="sourceCode cell-code" id="cb19"><pre class="sourceCode python code-with-copy"><code class="sourceCode python"><span id="cb19-1"><a href="#cb19-1" aria-hidden="true" tabindex="-1"></a>interp.plot_top_losses(<span class="dv">9</span>, nrows<span class="op">=</span><span class="dv">3</span>)</span></code></pre></div><button title="Copy to Clipboard" class="code-copy-button"><i class="bi"></i></button></div>
+<div class="cell-output cell-output-display">
+
+</div>
+<div class="cell-output cell-output-display">
+<div>
+<figure class="figure">
+<p><img src="wyklad_7_files/figure-html/cell-18-output-2.png" class="img-fluid figure-img"></p>
+</figure>
+</div>
+</div>
 </div>
 <p>To prowadzi do punktu, który warto zapamiętać: <strong>w praktyce osiemdziesiąt procent poprawy modelu pochodzi z poprawiania danych, nie modelu</strong>. Nie z droższej architektury, nie z większego ResNeta, nie z dłuższego treningu — z obejrzenia top losses, identyfikacji błędnych etykiet, dosypania kilkudziesięciu zdjęć dla niedoreprezentowanej klasy.</p>
 </section>
